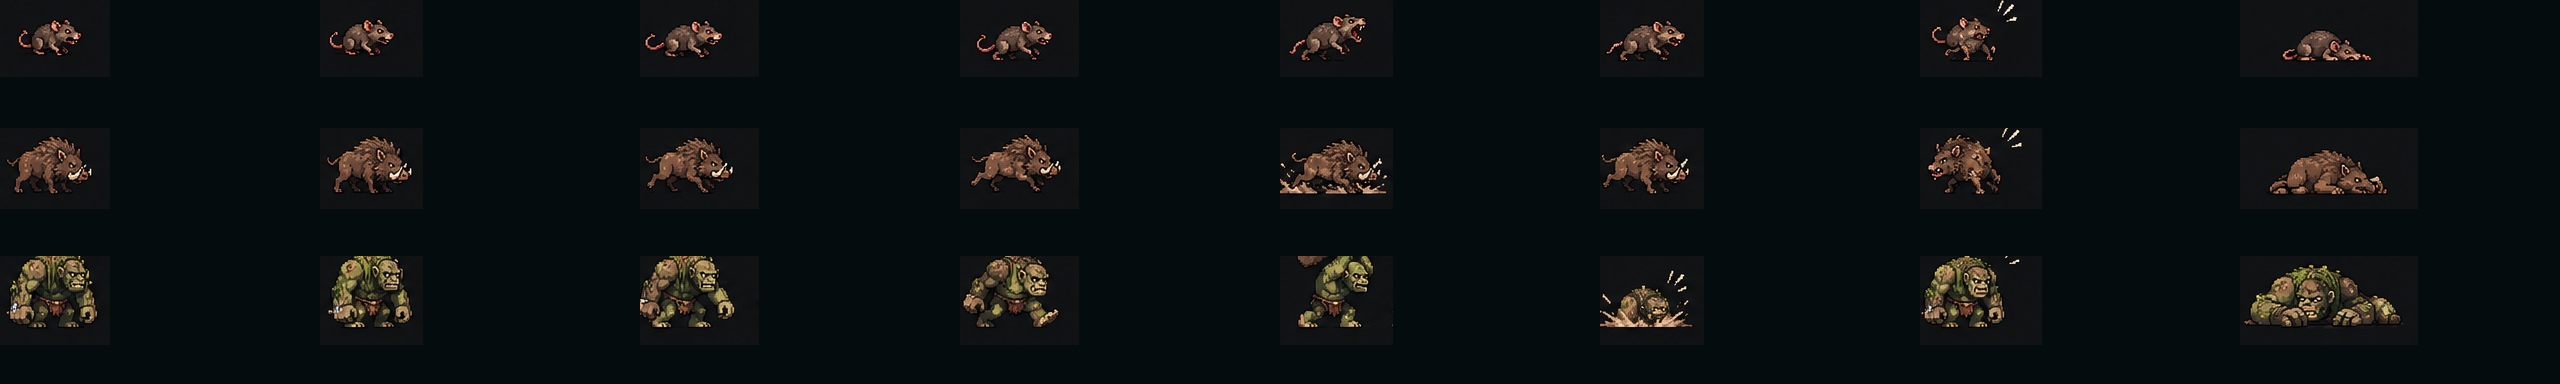
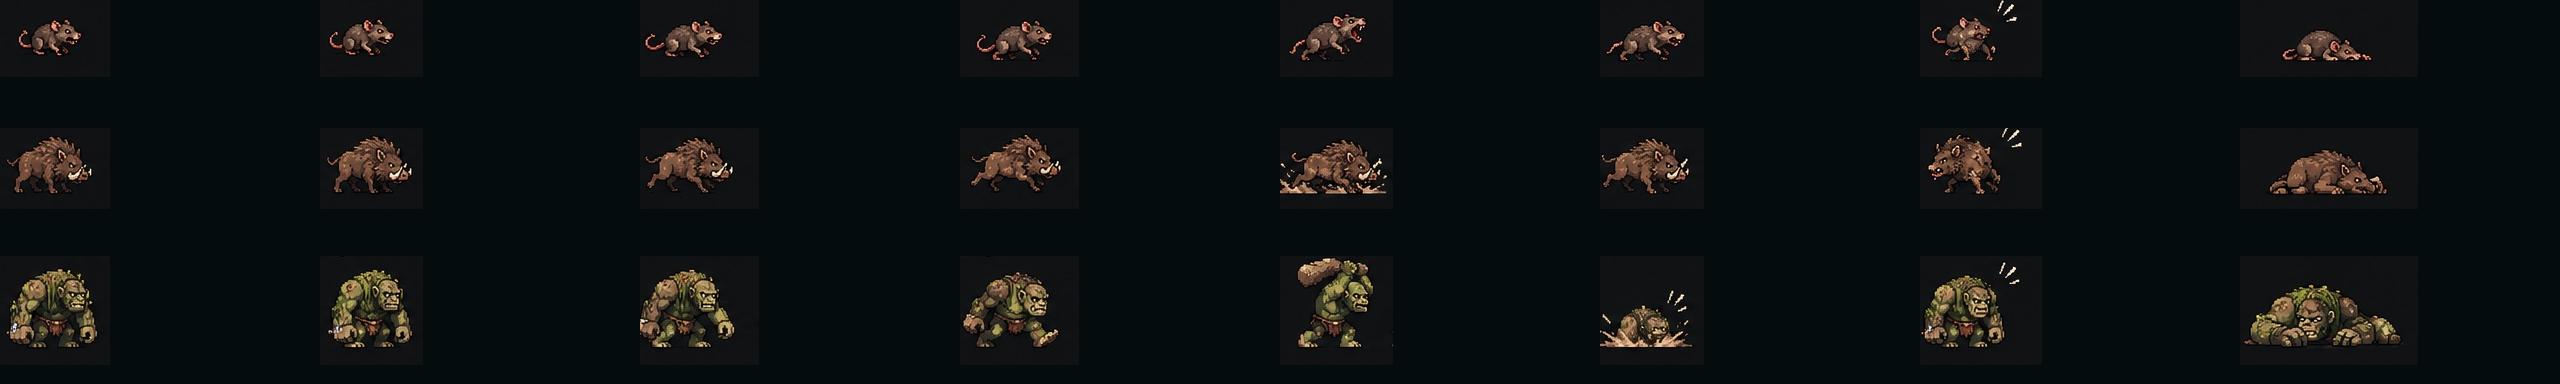
Add the Forest Troll and its telegraphed club slam to the Crater preview

diff --git a/public/myrren-game.js b/public/myrren-game.js
@@ -219,15 +219,17 @@ craterDash?.load?.();
 if(craterRocks){
   MT.goblin_guard={...MT.wolf,name:'Cave Goblin Protector',lv:16};
   MT.rat={...MT.slime,name:'Forest Rat'};
+  MT.troll={...MT.bear,name:'Forest Troll'};
 }
 window.addEventListener('myrren-pet-reference-ready',()=>{if(tab==='skills')renderModal()});
 // Prototype motion tuning only, not approved Crater balance. Damage/cooldown use MT.
 const ROCK_PREVIEW={range:90,retreat:30,speed:140,distance:120,windup:300};
-// Prototype timings for the preview's lunging and charging enemies.
+// Prototype timings for the preview's animal attacks and troll slam.
 const CRATER_DASH={
   rat:{range:12,travel:6,windup:240,dash:90,recover:200,hitRadius:7},
   wolf:{range:30,windup:320,dash:150,recover:260,hitRadius:7},
-  boar:{range:42,windup:460,dash:190,recover:380,hitRadius:8}
+  boar:{range:42,windup:460,dash:190,recover:380,hitRadius:8},
+  troll:{range:22,windup:620,recover:560,impactRadius:11}
 };
 const BLD=VILLAGE.buildings.map(b=>({...b}));
 const LAMPS=[[CX-200,CY+14],[CX+200,CY+14],[CX-120,CY+70],[CX+120,CY+70],[CX-40,CY+70],[CX+40,CY+70]];
@@ -955,7 +957,7 @@ let boardOffers=null,boardLv=0;
 function mkObj(sk){
   const L=lvlFor(save.xp[sk]),br=BR(L);
   if(sk==='melee'){
-    let pool=Object.keys(MT).filter(k=>k!=='goblin_guard'&&k!=='rat'&&MT[k].lv<=L+15);if(!pool.length)pool=['slime'];
+    let pool=Object.keys(MT).filter(k=>k!=='goblin_guard'&&k!=='rat'&&k!=='troll'&&MT[k].lv<=L+15);if(!pool.length)pool=['slime'];
     const good=pool.filter(k=>MT[k].lv>=L*.4);if(good.length)pool=good;
     return {type:'slay',skill:sk,mon:pool[rint(0,pool.length-1)],need:rint(SLAYQ[br][0],SLAYQ[br][1]),have:0};
   }
@@ -1717,6 +1719,16 @@ function updateCraterDash(m,mt,dt,now,dp,dx,dy,timing){
       const scale=dist>travel?travel/dist:1;
       attack.x=m.x+ax*scale;attack.y=m.y+ay*scale;
       if(Math.abs(ax)>.6)m.face=ax>0?1:-1;
+      if(timing.impactRadius){
+        m.dashAttack=null;
+        const steps=Math.max(1,Math.ceil(dist*scale/2));
+        for(let i=1;i<=steps;i++){
+          const x=m.x+ax*scale*i/steps,y=m.y+ay*scale*i/steps;
+          if(craterRockBlocked(x,y)||inWater(x,y))return;
+        }
+        if(Math.hypot(me.x-attack.x,me.y-attack.y)<=timing.impactRadius)damagePlayerFromMonster(mt);
+        return;
+      }
     }
     const progress=Math.min(1,(now-m.lunge)/timing.dash);
     const x=attack.fromX+(attack.x-attack.fromX)*progress;
@@ -2094,7 +2106,7 @@ function drawMon(m,x,y,now){
   ctx.save();ctx.globalAlpha=al;
   const goblinDrawn=craterGoblins?.draw?.(ctx,m,x,y,now,{moving,hitAge:ha,windup:ROCK_PREVIEW.windup});
   const dashDrawn=craterDash?.draw?.(ctx,m,x,y,now,{moving,hitAge:ha,recover:CRATER_DASH[m.t]?.recover});
-  if(!goblinDrawn&&!dashDrawn&&m.t!=='rat'){
+  if(!goblinDrawn&&!dashDrawn&&m.t!=='rat'&&m.t!=='troll'){
     ctx.translate(x,y);ctx.scale(f,1);
     if(m.t==='slime')sprSlime(mode,ph,age,flash);else if((m.t==='goblin'||m.t==='goblin_guard'))sprGoblin(mode,ph,age,flash);else if(m.t==='boar')sprBoar(mode,ph,age,flash);else if(m.t==='bear')sprBear(mode,ph,age,flash);else if(m.t==='cave')sprQuad(Q_CAVE,mode,ph,age,flash);else if(m.t==='abear')sprQuad(Q_ABEAR,mode,ph,age,flash);else sprWolf(mode,ph,age,flash);
     // Native-pixel creature finishing pass: fur, eyes, tusks and equipment.
@@ -2122,7 +2134,7 @@ function drawMon(m,x,y,now){
   }
   ctx.restore();ctx.globalAlpha=1;
   if(dead)return;
-  const top=y-(dashDrawn?({rat:19,boar:30,wolf:38}[m.t]):goblinDrawn?(m.t==='goblin_guard'?42:34):({goblin:27,wolf:20,boar:18,bear:30,cave:30,abear:30}[m.t]||15));
+  const top=y-(dashDrawn?({rat:19,boar:30,wolf:38,troll:52}[m.t]):goblinDrawn?(m.t==='goblin_guard'?42:34):({goblin:27,wolf:20,boar:18,bear:30,cave:30,abear:30}[m.t]||15));
   if(m.hp<mt.hp)bar(x,top,m.hp/mt.hp);
   if(Math.hypot(m.x-me.x,m.y-me.y)<70||me.tgt===m)label((goblinDrawn&&m.t==='goblin'?'Goblin Miner':mt.name)+' (Lv '+mt.lv+')',x,top-5,'#ffffff');
 }
@@ -2627,6 +2639,7 @@ if(craterRocks){
     if(++count===4)break;
   }
   addMons('rat',6,110);
+  addMons('troll',3,560);
 }
 syncPets();petsTeleport();uiHud();
 let loadDone=false;

diff --git a/public/crater-fitting-preview.html b/public/crater-fitting-preview.html
@@ -10,4 +10,4 @@
 <div class="playback"><button id="play" type="button">Pause</button><button id="replay" type="button">Replay</button><label>Frame<input id="frame" type="range" min="0" max="0" value="0"></label><span id="frameLabel" class="small" aria-live="off"></span><label class="check"><input id="mirror" type="checkbox">Mirror study (not a supplied view)</label></div>
 <div class="controls"><section class="panel"><h2>Fitting controls</h2><label>Draft creature size <input id="size" type="range" min="0.5" max="2" step="0.05" value="1"><span id="sizeLabel"></span></label><br><label>Preview frame duration <input id="duration" type="range" min="80" max="400" step="10" value="160"><span id="durationLabel"></span></label><p class="small">The player uses the existing approved renderer. The cyan marker is the crop’s proposed ground anchor. Creature crop backgrounds and grass remain visible.</p></section><section class="panel"><h2>Source & missing work</h2><dl id="details"></dl><p id="missing"></p><p id="error" role="alert"></p></section></div>
 <footer id="status" role="status">Loading approved reference frames…</footer>
-</main><script src="/wardrobe-v5.js?v=5"></script><script src="/approved-character.js?v=9"></script><script src="/crater-animation.js?v=1"></script><script src="/crater-fitting-preview.js?v=2"></script></body></html>
+</main><script src="/wardrobe-v5.js?v=5"></script><script src="/approved-character.js?v=9"></script><script src="/crater-animation.js?v=1"></script><script src="/crater-fitting-preview.js?v=3"></script></body></html>

diff --git a/public/crater-fitting-preview.js b/public/crater-fitting-preview.js
@@ -40,7 +40,7 @@
   if($('mirror').checked)ctx.fillText('Mirrored source study — no new directional artwork',24,54);
  }
  async function init(){
-  try{const response=await fetch('/crater-reference-frames.json?v=2');if(!response.ok)throw Error('Cannot load reference metadata');data=await response.json();await Promise.all(Object.entries(data.references).map(async([ref,r])=>images.set(ref,await loadImage('/'+r.file+'?v='+data.version))));
+  try{const response=await fetch('/crater-reference-frames.json?v=3');if(!response.ok)throw Error('Cannot load reference metadata');data=await response.json();await Promise.all(Object.entries(data.references).map(async([ref,r])=>images.set(ref,await loadImage('/'+r.file+'?v='+data.version))));
    selectCategory();$('category').addEventListener('change',selectCategory);$('creature').addEventListener('change',selectCreature);$('state').addEventListener('change',()=>{reset();updateDetails()});
    $('frame').addEventListener('input',()=>{playing=false;index=Number($('frame').value);$('play').textContent='Play'});
    $('play').addEventListener('click',()=>{playing=!playing;$('play').textContent=playing?'Pause':'Play'});$('replay').addEventListener('click',()=>{reset();playing=true;$('play').textContent='Pause'});

diff --git a/public/crater-dash.js b/public/crater-dash.js
@@ -1,11 +1,11 @@
-/* Approved Forest Rat, Wild Boar and Dire Wolf poses for the Crater combat preview. */
+/* Approved Forest Rat, Wild Boar, Dire Wolf and Forest Troll poses for the Crater combat preview. */
 (()=>{'use strict';
  function create(){
-  const ids={rat:'forest_rat',boar:'wild_boar',wolf:'dire_wolf'};
+  const ids={rat:'forest_rat',boar:'wild_boar',wolf:'dire_wolf',troll:'forest_troll'};
   const artwork=new Map();
   async function load(){
    try{
-    const response=await fetch('/crater-reference-frames.json?v=2');
+    const response=await fetch('/crater-reference-frames.json?v=3');
     if(!response.ok)return false;
     const metadata=await response.json();
     const atlases=new Map();

diff --git a/public/index.html b/public/index.html
@@ -75,7 +75,7 @@
 <script src="/crater-pet-reference.js?v=3"></script>
 <script src="/crater-wildlife.js?v=1"></script>
 <script src="/crater-goblins.js?v=1"></script>
-<script src="/crater-dash.js?v=2"></script>
-<script src="/myrren-game.js?v=22"></script>
+<script src="/crater-dash.js?v=3"></script>
+<script src="/myrren-game.js?v=23"></script>
 </body>
 </html>

diff --git a/scripts/pack-crater-reference-frames.py b/scripts/pack-crater-reference-frames.py
@@ -28,7 +28,7 @@ def creature(id, name, category, ref, height, states, gaps=()):
 def group(box, count, loop=False):
     return dict(box=box, count=count, loop=loop)
 
-for id,name,top,bottom,height in [('forest_rat','Forest Rat',165,242,14),('wild_boar','Wild Boar',426,507,24),('forest_troll','Forest Troll',704,793,44)]:
+for id,name,top,bottom,height in [('forest_rat','Forest Rat',165,242,14),('wild_boar','Wild Boar',426,507,24),('forest_troll','Forest Troll',684,793,44)]:
     creature(id,name,'Hostiles','R1',height,{
         'idle':group([449,top,655,bottom],2,True),
         'move':group([689,top,927,bottom],2,True),
@@ -80,7 +80,7 @@ creature('river_otter','River Otter','Pets','R5',18,{
 # Hand-measured crop boundaries: these boards do not use uniform frame grids.
 def boxes(id,state,coords):
     c=next(c for c in creatures if c['id']==id);c['states'][state]={'boxes':coords,'loop':c['states'][state]['loop']}
-for id,top,bottom in [('forest_rat',165,242),('wild_boar',426,507),('forest_troll',704,793)]:
+for id,top,bottom in [('forest_rat',165,242),('wild_boar',426,507),('forest_troll',684,793)]:
     boxes(id,'idle',[[440,top,550,bottom],[555,top,658,bottom]])
     boxes(id,'attack',[[943,top,1056,bottom],[1057,top,1161,bottom]])
 for id,top,bottom in [('goblin_miner',175,250),('goblin_guard',471,574)]:
@@ -167,9 +167,10 @@ levels=dict(zip(order[:8],[1,5,8,12,16,18,22,30]))
 creatures.sort(key=lambda c:order.index(c['id']))
 for c in creatures:
     if c['id'] in levels:c['level']=levels[c['id']]
+    if c['id']=='forest_troll':c['fitSourceHeight']=89 # Keep the scale after restoring the top of the club.
     if c['id']=='river_otter':c['fitSourceHeight']=68 # Expanded crops must not change the established source-pixel scale.
 
-data=dict(version=2,purpose='Exact reference crops for inspection; not production sprites',
+data=dict(version=3,purpose='Exact reference crops for inspection; not production sprites',
     pixelPolicy='Original decoded JPEG pixels retained without resizing, masking or redrawing.',
     timingPolicy='Preview timing only; no production durations approved.',
     sizePolicy='draftFitHeight is an adjustable fitting proposal, not an approved scale.',
